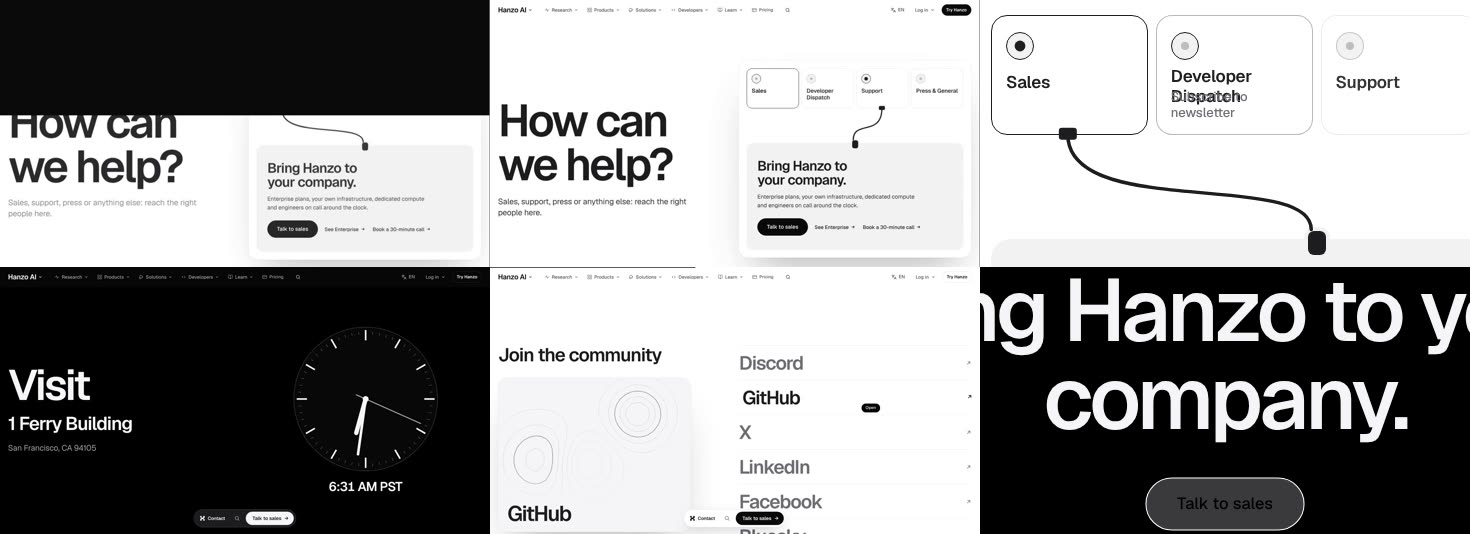
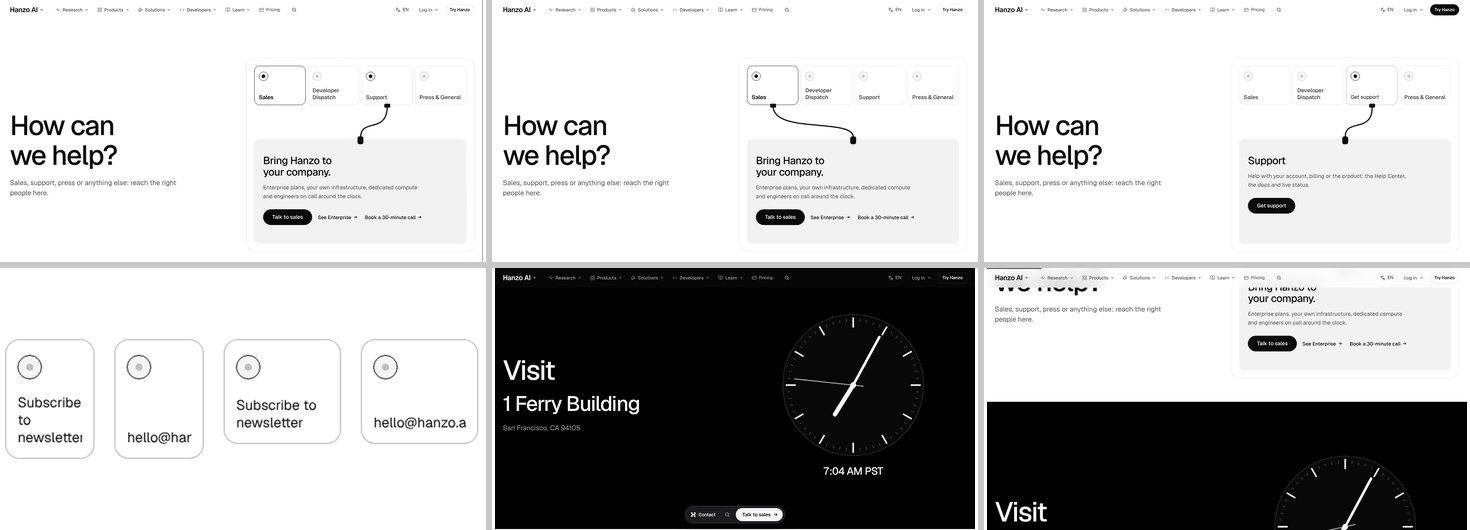
review: /contact re-run 2 (7/10)
Claude-Session: https://claude.ai/code/session_01DqUybCfU4GgFpPAvhZChtu

diff --git a/docs/review/contact.md b/docs/review/contact.md
@@ -1,124 +1,142 @@
 # /contact — James-eye review
 
 Verdict: 7/10
-First complaint: "I point at 'Developer Dispatch' and 'Subscribe to newsletter' prints right on top of it. I go for the last 'Talk to sales' and it turns dark grey and the words disappear. And it's still a page that sits there: the headline is already in place when the black lifts, the cable swings once and stops, and below that it's a black box with a clock and a list."
+First complaint: "I click Support, then Press, and now there are two black buttons on screen: 'Try Hanzo' up top and the route's own. On my 1280 laptop I point at 'Press & General' and it prints 'hello@hanzo.a', with the email cut off. Once the cable has done its one lap it just hangs there. On the phone nothing moves at all, and on a smaller phone I can't even see 'Talk to sales' without scrolling."
 
-Walked 7 Nov, about 14:29 to 14:39 UTC. Page file at `5140e26` (`components/pages/Contact.jsx`, `Contact.css`), HEAD `96b1778`. Filmed moving at 1470×801 and 375×812, on a first visit (curtain) and a return visit: wheel scroll with a dwell on every screen, hover and press on desktop, taps on the phone. Also checked JS off, reduced motion, 320 and 375 widths, keyboard, and jack hover at 1440×900, 1280×800 and 1024×768.
+Walked 7 Nov, about 15:00 to 15:22 UTC. The page file is at `124ebd0` (`components/pages/Contact.jsx`, `Contact.css`); HEAD was `c082fb4`.
+- **Filmed moving** at 1470×801 and 375×812 (touch). Each size was walked on a first visit and on a return visit (`hz-arrived` set). Desktop: wheel scroll with a dwell on every screen, plus hover and press. Phone: taps.
+- **Also checked:** 320, 375×667, 1024, 1280 and 1440; JS off; JS on but the app bundle blocked; reduced motion; a Tab crawl; idle motion measured by pixel diff and wire geometry.
 
 Stills:
-- `review/contact/desktop-walk.jpg`. Top row: the curtain uncovering a headline that has already finished its cut-in; the cable on Support mid-sweep with the Sales route still in place; hovering "Developer Dispatch" (the action prints over the name). Bottom row: the Visit room; the community plate on hover; the closing Band's "Talk to sales" on hover.
-- `review/contact/phone-walk.jpg`. Sales at rest; mid-sweep, with neither visible dot lit; Press with the copy tick; the clock; the plate riding at the top over the rows; JS off.
+- `review/contact/desktop-walk.jpg`.
+  - Top row: mid-sweep with the cable on Support; the hero at rest after the sweep (it stays this way, see 1); after Support, then Press, then Support, with the header's "Try Hanzo" solid beside "Get support".
+  - Bottom row: jack hover at 1024 ("newslette", "hello@har") and at 1280 ("hello@hanzo.a"); the Visit room; the black room arriving as a hard full-bleed edge.
+- `review/contact/phone-walk.jpg`, left to right:
+  - 375×812 at rest;
+  - 375×667, where the first screen ends above "Talk to sales";
+  - after tapping Support, then Press, then Support: the header's "Try Hanzo" is solid beside "Get support";
+  - the clock;
+  - the plate riding over the rows;
+  - JS on with the bundle blocked: the h1 alone, with no lede, panel or ask.
 
 ## What works
-- **The ask never moves.** Across 60 samples from load to 13s, the Sales route stays at opacity 1 and the other three at 0. Only the cable sweeps. "Talk to sales" ends at y=707 at 1470×801 and at y=744 at 375×812. This was last review's first complaint, and it is fixed.
-- **The cable is one drawing.** In 14 samples taken mid-swing, the nub sits exactly on the wire's end. It swings on a spring and settles in about 0.5s. The old route lifts out and the new one rises in.
-- **One contour.** The Visit map is gone. The room's object is now a 440px live clock with a readout, and the community plate is the only contour on the page. The plate drifts while idle and leans toward the pointer.
-- **The additions are gone.** There are no 01–04 numerals and no mono URL lines.
-- **Closing Band.** It uses Hanzo's "Bring Hanzo to your company." with one solid "Talk to sales". The ask bar hides while the Band is on screen.
+- **Last review's two hover breaks are fixed at the widths James uses most.**
+  - At 1440 and 1470, hovering a jack fades the name to 0 and puts the action in the same slot. There is no text on text.
+  - The closing Band's "Talk to sales" goes from light to white on hover and keeps its black label. The page's dark hover is now scoped to the hero (`#0a0a0a` to `#262626`, with a .98 press).
+- **The ask never moves.** Across 40 samples from load to 11s, the routes read 1,0,0,0 the whole time. Only the cable sweeps:
+  - Dispatch about 1.0s after `go`, then Support, then Press, 0.6s apart;
+  - back on Sales about 2.2s after the sweep began.
+
+  The plug sits on the wire and stays hidden until the wire is drawn (`data-wired`).
+- **The arrival works without the curtain.**
+  - The curtain is now home-only (and skips headless browsers), so on /contact a first visit and a return visit are identical. Last review's "h1 finishes under the curtain" no longer applies.
+  - The h1 cuts in by CSS about 0.55s after first paint, before hydration, so something moves within 1s.
+  - The panel rises 24px at +150ms after hydration, and the lede follows at +300ms.
+- **The phone has a cable now.** A short wire drops from the chosen pill into its route. Tapping a pill scrolls the row (never the page), and the wire follows the pill within a frame or two.
+- **The other rooms are alive and correct.**
+  - The clock reads 7:04 AM PST at 15:04 UTC, and the second hand ticks.
+  - The Sigil plate drifts while idle and redraws on hover, focus and scroll.
+  - Rows slide 10px. The copy button writes exactly "hello@hanzo.ai", and `role=status` says "Copied". With the clipboard blocked, it stays silent.
 - **States:**
-  - JS off: all four routes are stacked and readable with their links, and hello@hanzo.ai shows. There is no plug, no cable and no 12:00 on the dial, and nothing is inert.
-  - Reduced motion: no sweep, and 0 animations running after 4s.
-  - The clock's name carries the time ("San Francisco, 6:31 AM PST").
-  - With clipboard access blocked, nothing claims "Copied". With access, the tick draws and `role=status` says "Copied".
-- **Hover, press and keys:**
-  - Sales goes from #0a0a0a to #3a3a3c, and press scales it to .98.
-  - "See Enterprise" underlines and its arrow moves 4px.
-  - Community rows slide 10px and redraw the plate.
-  - Arrow keys move and select the tab (checked from Sales to Support).
-  - On the phone, a tap scrolls the chosen pill into view, and the page never scrolls sideways.
+  - JS off: all four routes are readable, and the cable, plug, plate and copy button are hidden (0 hidden texts).
+  - Reduced motion: 0 running animations at 3.5s, with the h1 in place.
 - **Engineering checks pass:**
-  - CLS is 0 on desktop and phone, on both first and return visits.
-  - No console errors or warnings.
-  - No sideways scroll at 320 or 375.
+  - CLS is 0 on desktop and phone.
+  - No sideways scroll at 320, 375, 1024 or 1470, and no text overlap at rest at those widths.
   - Every phone target is 44px or more.
-  - Parity is 29/29 text and 15/15 links.
-  - The hero buttons are the kit `Go`, and every primary has its `data-cta`.
+  - Parity 29/29 and 15/15; `taste.py` OK; `unique.py` and `variety.py` OK.
+  - The focus ring is 2px ink with a white halo on every stop in `main`, and arrow keys move and select the tabs.
 
 ## The 11 answers
-1. **Sells in 5 seconds, moves within 1 second?** It sells: the question, the four lines and a "Talk to sales" that stays put. But the arrival is still mostly spent where no one sees it.
-   - **First visit.** The curtain starts lifting at t=2.11s, and the h1 cut-in starts at the same moment (0.8s). The curtain wipes upward from the bottom over 1s, so the top half of the screen is uncovered last. "we help?" appears at about lift+0.5s and "How can" at about lift+0.55s, and both are already seated (top-left frame). What you actually see moving is the lede fading, the panel rising 48px, then the cable: Dispatch at lift+0.72s, Support at +1.35s, Press at +1.98s, back to Sales at +2.6s, at rest by about +3.2s.
-   - **After that, the first screen is dead.** Two screenshots taken 1.5s apart are byte-identical.
-   - **Phone.** There is no cable, so the "sweep" is an 8px dot hopping to Dispatch and then into two pills that are off-screen. For about 1.8s neither visible dot is lit (Sales's own dot goes grey), then Sales lights again. It reads as a flicker, not a move.
-   - **Return visit** (dev server, slow hydration, so weigh this lightly). The lede and panel are in by about 1.0s while the h1 slot is still blank, and the plug floats with no wire until hydration at about 1.3s. Then the h1 cuts in, last.
-2. **One in, one out, or a document?** Still a short document:
-   - the hero;
-   - a dark Visit room, 854px tall: the word, the address, and the clock;
-   - a nine-row index beside a sticky plate;
-   - the Band.
+1. **Sells in 5 seconds, moves within 1 second?** On desktop it sells, and the h1 moves by about 0.55s. Then:
+   - **The hero goes still.** After the sweep (about 4.4s from load on the dev server), the "sway" moves the wire 1.7px horizontally and 0.6px vertically over 8s, measured at 30% of its length. You cannot see that; it reads as a dead first screen.
+   - **The phone is fully still.** It has no sweep and no sway, because the sway waits for `held`, which only the desktop sweep sets. Two screenshots 2s apart at +5s are byte-identical.
+   - **375×667:** "Talk to sales" sits at y=665–713. The first screen ends 2px into it, and no ask bar covers for it, since the bar waits until the hero ask has scrolled away.
+   - **Bundle fails** (JS on, app scripts blocked): the lede and the whole panel stay at opacity 0 indefinitely. Their entrance is paused until React sets `data-go`, and there is no CSS failsafe. The first screen is the h1 on white with no ask.
+2. **One in, one out, or a document?** There are four rooms, one idea each: hero, Visit and its clock, the community index and plate, and the Band. MASTER 4.5 says Utility has "no scroll theatre", so I don't count the missing pinned scene against it (last review did). The scroll motion is the two section cut-ins and the plate following the row.
+3. **A real visual object in every section?** Yes: the patch panel and cable, the live clock, the contour plate, and the Band's type and button.
+4. **One ask, sticky after the hero?** Mostly:
+   - **Working:**
+     - the "Contact · Talk to sales" bar arrives at y≈866 on desktop and y≈1040 on the phone;
+     - the bar yields to the Band;
+     - the header's "Try Hanzo" is outline while the hero ask shows.
+   - **Broken: two solid fills.** From the second route switch onward, the header's "Try Hanzo" turns solid while the route's own solid button is on screen. It stays that way until the page scrolls. Reproduced on every run, desktop and phone:
+     - Sales, then Support: one fill;
+     - then Press: "Try Hanzo" and "hello@hanzo.ai";
+     - then Sales: "Try Hanzo" and "Talk to sales";
+     - a 3px scroll clears it.
+   - **Cause.** The shared Ask layer re-checks on the DOM change, while the old route is already inert and the new one is still under opacity .6. Nothing re-checks once the new route has faded in.
+5. **Every hover and press answers, no jumps?** Not at every width.
+   - **The jack's action is clipped.** It got its own slot, but the slot has `overflow:hidden`:
+     - at 1280, "hello@hanzo.ai" needs 110px in a 106px slot and shows "hello@hanzo.a";
+     - at 1024 the slot is 74px: "hello@har", and "Subscribe to newsletter" breaks to three lines ending "newslette".
 
-   Scroll motion is the two headline cut-ins, the clock hands fading in, and the plate following the row. Nothing is pinned and nothing is scrubbed. Last review's fix 3 (a scroll story) was not taken.
-3. **A real visual object in every section?** Yes: the patch panel and cable, the live clock, and the contour plate. They are three different media now. The Band is type and one button, which is what the kit Band is.
-4. **One ask, sticky after the hero?** Yes:
-   - The hero viewport has one solid button.
-   - The "Contact · Talk to sales" bar arrives after the hero (y≈1080 on desktop, y≈1136 on the phone), and the header's "Try Hanzo" turns outline.
-   - The Band repeats the ask.
-
-   Note that the Band's headline is the Sales route's h2 word for word, so the same sentence opens and closes the page.
-5. **Every hover and press answers, no jumps?** No. There are two visible breaks:
-   - **Jack hover collides.** The action label sits 12px above the jack's bottom edge, and the name lifts only 6px. So the two-line "Developer Dispatch" gets "Subscribe to newsletter" printed over "Dispatch": a 17px overlap at 1470, 1440 and 1280. At 1024 it overlaps by 34px, and "Press & General" collides by 17px too. This is text on text in the hero card, on the first thing anyone hovers.
-   - **The closing ask goes blank on hover.** The page's `.xct .x-btn.solid:hover { background: #3a3a3c }` also catches the kit Band's white button, which keeps its black text. Hover turns it into black on #3a3a3c, and the label all but disappears (bottom-right still).
-   - **Small:** on the phone, once the row has scrolled, a sliver of the previous pill ("n") shows at the card's left edge.
+     1280 is a common laptop width, and what prints is Hanzo's email, cut.
+   - **Everything else answers:** the hero ask, See Enterprise (underline plus a 4px arrow), copy, the rows, the plate and the Band.
 6. **Overlaps, font swap, layout shift?**
-   - The jack hover overlap is the only overlap (see 5).
-   - No font swap, CLS 0, and no overlap between hero, buttons and nav at either size.
-   - **Tiny:** on a first visit, the panel is measured under the curtain's `scale(.985)`, so during the sweep the plug sits about 6px off-centre on Press.
-   - **JS off leftovers:**
-     - the community plate is an empty grey box labelled "Discord";
-     - the copy button is a dead control;
-     - at 1470 the h1 drops to y≈580, beside the tall stack of routes.
+   - Desktop and phone: no overlap at rest, no font swap and CLS 0.
+   - The clipped hover label is the visible break (see 5).
+   - JS off, carried over: at 1470 the h1 still drops to y=609–785 beside the stacked routes, with the lede below the fold. The four jacks show as buttons that do nothing.
 7. **Which reference, and is its motion there?**
-   - The cable spring is osply/hamol "playful but restrained micro-motion", and it is better now that the plug rides the wire.
-   - The calm is Apple's, but none of Apple's pinned or scrubbed scenes are here.
-   - The pointer-led details are the plate's lean and the jack's action label.
+   - The cable lap is osply/hamol micro-motion, and it is clean: the plug rides the wire and nothing else moves.
+   - The calm is Apple's.
+   - The idle half of the idea, a cable that hangs and sways, is invisible at 1.7px.
 8. **Different from its neighbours?** Partly.
-   - /support has moved on: a full-width h1, a search pill and a list.
-   - /contact-sales still has the same skeleton as this page: a Display h1 on the left and a white shadowed card on the right. /support still uses the same h1 words.
-   - The cable is this page's own signature on desktop, but the phone loses it.
-9. **18 areas (PLAN-COMPONENTS)?** `docs/coverage/contact.md` is mostly true now. Verified true:
-   - Sales never moves, and the 707 and 744 fits.
-   - The numerals and URLs are gone.
-   - The JS-off routes.
-   - The nub sits on the wire.
-   - The hero uses `Go`.
-   - The clock's name, the reduced-motion behaviour and parity.
+   - /support has moved away: a full-width h1, a search pill, a card and a list.
+   - /contact-sales and /press still share this page's skeleton: a Display h1 on the left and a framed object on the right.
+   - /contact's object (the patch panel) is its own.
+9. **18 parts?** `docs/coverage/contact.md` is mostly true. Verified true:
+   - the routes never move;
+   - the nub on the wire, and the plug hidden until wired;
+   - the Band hover;
+   - the JS-off plate and copy button;
+   - reduced motion, parity and CLS.
 
    Wrong or overstated:
-   - "Arrival waits for the curtain… so a first visit sees them". True for the lede and panel, false for the h1, which is seated before it is uncovered.
-   - "Hovering a jack shows that line's own action". It does, on top of the name, for two-line labels.
-   - "The Band's button is the kit's". It is, but the page's CSS breaks its hover.
-   - "The cable sweeps the four sockets". Not on the phone, where there is no cable and the lit dot leaves the screen.
-   - "Scroll (the only scroll-linked part): the community plate". The two headline cut-ins are scroll-triggered too.
-10. **Banned tells?** None:
-    - no eyebrow;
-    - no hue;
-    - no gradient text;
-    - no Inter;
-    - no `title=` tooltips.
+   - **Part 11, "Primary ask above the fold at 375×667":** false (665–713).
+   - **Part 1, "One solid fill per viewport":** false after any second route switch.
+   - **Part 6, "Checked at 1024, 1280 and 1470… the action sits inside the jack":** it is clipped at 1024 and 1280.
+   - **Parts 3 and 9, "then it sways while idle":** it does, by 1.7px. On phones it does not sway at all.
+   - **Part 3, "550ms after the curtain starts lifting":** there is no curtain on /contact. This is harmless, but the card describes a path that never runs.
+   - **Part 17, "a thrown island does not blank the page":** a failed bundle blanks everything under the h1 (see 1).
+10. **Banned tells?** None: no eyebrow, hue, gradient text, Inter, `title=` or fading button.
 
-    No button fades on hover, though the Band button going dark-on-dark is the nearest thing to one.
-11. **Copy untouched?**
-    - Parity is 29/29 and 15/15. The numerals and URL lines are removed.
-    - The only generated string is the clock readout, which is data.
-    - The jack hover prints Hanzo's button words a second time, which adds no new words.
-    - The Band reuses "Bring Hanzo to your company." and "Talk to sales". These are Hanzo's words, but now they appear twice on the page.
+    One taste note: the hero object is boxes inside boxes. An outlined card holds four outlined jack tiles above a filled route tile. MASTER 3.1 says "raise a surface or outline it" and "tiles are flat fills with no outline".
+11. **Copy untouched?** Parity is 29/29 and 15/15. The one problem is the jack hover, which prints Hanzo's button words truncated ("hello@hanzo.a") at 1280 and below.
 
-## Missing from the 18 areas
-- **2.3 First impression:**
-  - The h1 cut-in still finishes under the curtain on a first visit.
-  - The first screen goes still at lift+3.2s.
-  - On the phone the arrival is a flickering dot.
-- **2.3 Scroll story.** A document, with no scene where one thing comes in as another goes out.
-- **2.6 / 2.8 Hover.** The jack's action label collides with two-line names at every desktop width tested (1024–1470).
-- **2.4 / 2.8 Conversion.** The closing ask's hover is broken by a page CSS leak (`.xct .x-btn.solid:hover`).
-- **2.7 Visual.** The hero skeleton is still shared with /contact-sales.
-- **2.11 Mobile.** The page's signature (the cable) does not exist under 900px.
-- **2.17 States.** With JS off the plate is empty and the copy button is dead. On a return visit the plug shows before its wire.
+## Missing from the 18 parts
+- **Part 1 / 4, one solid fill.** The header ask turns solid beside the route's button after route switches.
+- **Part 3, first impression:**
+  - The hero is still after about 4s on desktop, and still from the start on phones.
+  - The h1 baseline sits at about 62% of the screen at 1470×801, against MASTER's "near 38%", and the next section does not peek.
+  - With JS on and the bundle failed, only the h1 shows.
+- **Part 3 / 11, phone fit.** "Primary inside 660px" and "ask above the fold at 375×667" both fail (the ask is at 665–713).
+- **Part 6 / 8, hover.** The jack action is clipped at 1024 and 1280.
+- **Part 7, rooms.** The Visit room arrives as a hard full-bleed edge. MASTER 3.1: "A black room enters as a rounded card inside the gutters and opens to full width as it is reached."
+- **Part 7, type.** "Visit" is set at the h1's 84px (Display) and the address at 64px. The deck's section heading is clamp(36px, 5.3vw, 64px). With the 32px readout and the 21px city, that screen holds 4 sizes; MASTER allows 3.
+- **Part 17, states.**
+  - JS off at 1470: the h1 drops to y=609, and the jacks are dead buttons.
+  - Bundle failure: the ask is invisible.
 
 ## Fixes (in order)
-1. **Fix the two hover breaks.**
-   - Scope the dark hover to the hero (`.xct-route .x-btn.solid:hover`), so the Band keeps the kit's hover.
-   - Give the jack's action label its own line: put the name and the label in one bottom-aligned column, with the label taking space when shown (or lift the name by the label's real height). Check "Developer Dispatch" and "Press & General" at 1024, 1280, 1440 and 1470.
-2. **Let a first visit see the headline.** Start the h1 cut-in, and the lede and panel after it, once the curtain has cleared the top of the screen, not when it starts lifting: about 550ms after `hz-arrived` (or on the curtain's `transitionend`). The cable sweep comes after the h1 lands. On a return visit, hold the lede and panel until the h1 has started, and hide the plug until the wire is drawn.
-3. **Give the scroll something to do** (carried over). Use the cable as the thread down the page, ending in the clock, or make the Visit room a short pinned scene (the room cuts in and the clock face scrubs to the hour). That way the three rooms hand over to each other instead of stacking.
-4. **Give the phone its signature.** Draw a short cable from the chosen pill down to the route, or drop the phone sweep. Never let Sales's dot go dark while the lit dot is off-screen. Fade the edges of the jack row instead of slicing a pill.
-5. **Finish the states.** With JS off, draw a static contour in the plate (or hide the plate) and hide the copy button.
+1. **Keep one solid fill after a route switch.** Once the new route has faded in (about 400ms), make the Ask layer look again. For example, dispatch a `scroll` event when the route's animation completes, which a 3px scroll proved is enough. Check Sales → Support → Press → Sales at 1470 and 375: the header must stay outline. If it needs a layer change, write `docs/requests/contact.md`.
+2. **Make the jack's action fit at every width.**
+   - "hello@hanzo.ai" needs 110px, and the slot is 106px at 1280 and 74px at 1024. Below about 1400px, either keep the name and let hover answer with the border, the dot and the wire's lean, or print the action as one line under the jack row.
+   - Never clip or break the email.
+   - Check 1024, 1280, 1440 and 1470.
+3. **Fit the phone's first screen.** "Talk to sales" must end above 660px at 375 wide, so it needs about 55px back. Take it from the hero's 88px top padding, the 40px margin above the panel and the route's top padding. Then check 375×667 and 375×812.
+4. **Give the hero a visible rest, on desktop and phone.**
+   - Make the sway one slow, visible drift (the wire's belly moving about 8–12px), still the viewport's one continuous mover.
+   - Start it on phones too, after the entrance (set `held` there).
+   - Keep it off under reduced motion.
+5. **Don't hang the ask on hydration.** With the curtain gone from /contact, run the lede and panel entries on a CSS delay like the h1, or add a CSS failsafe that shows them by about 2.5s. Test with the app scripts blocked.
+6. **Smaller items:**
+   - Let the Visit room enter as a rounded card inside the gutters that opens to full width.
+   - Set "Visit" at the section-heading size.
+   - With JS off, top-align the hero so the h1 sits on the first screen, and make the jacks anchor links to their routes, or hide them.
+   - Correct the coverage card (parts 1, 3, 6, 9, 11 and 17).
+
+Not this page's (mentioned because they touch it):
+- The kit `Go` wraps each link in a `motion.span` whose `whileTap` makes it focusable, so every `Go` is two Tab stops ("Talk to sales" twice in the hero and twice in the Band).
+- With the ask bar up, tabbing to the X, Reddit and TikTok rows leaves them partly under the bar (shared `scroll-padding-bottom`).
+- A hydration-mismatch badge appeared twice, at 15:06 and 15:12, while other chats were pulling and rebuilding. It did not come back in 14 clean loads, so it is not counted.
